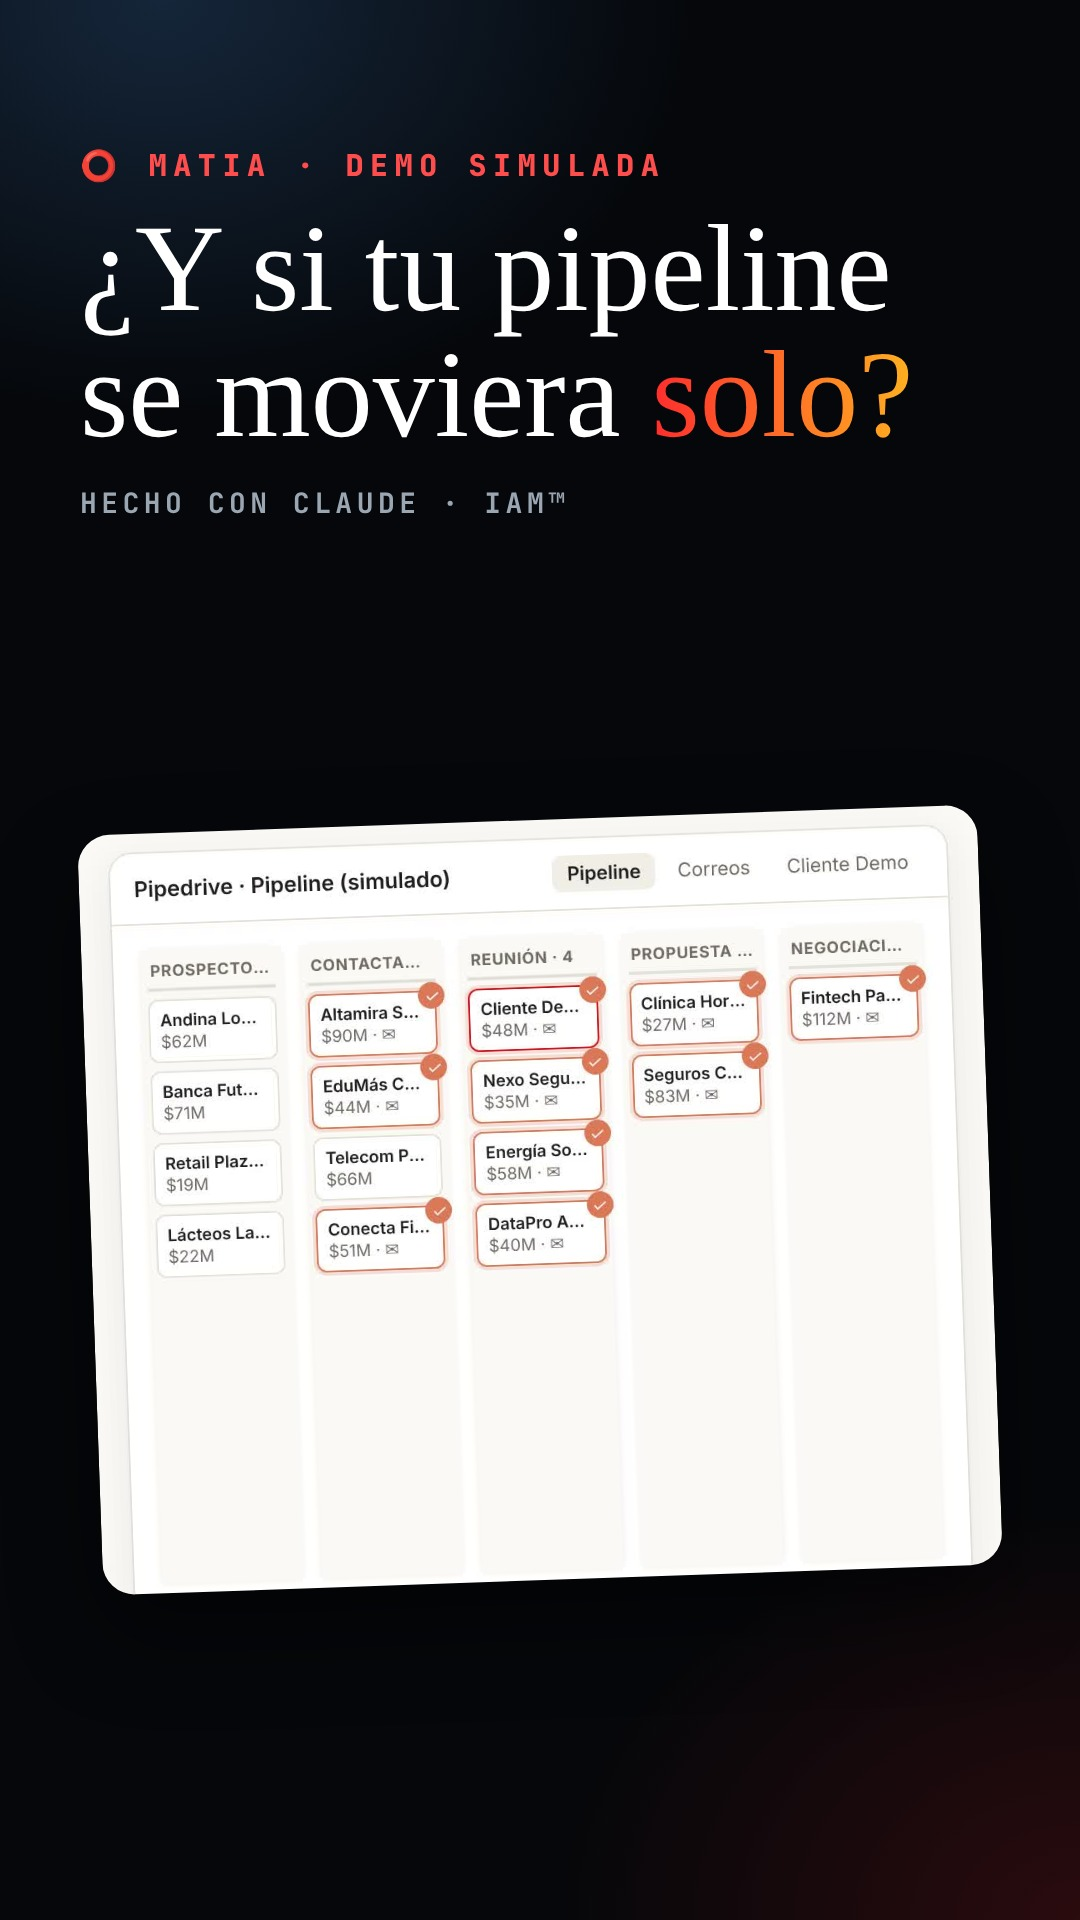
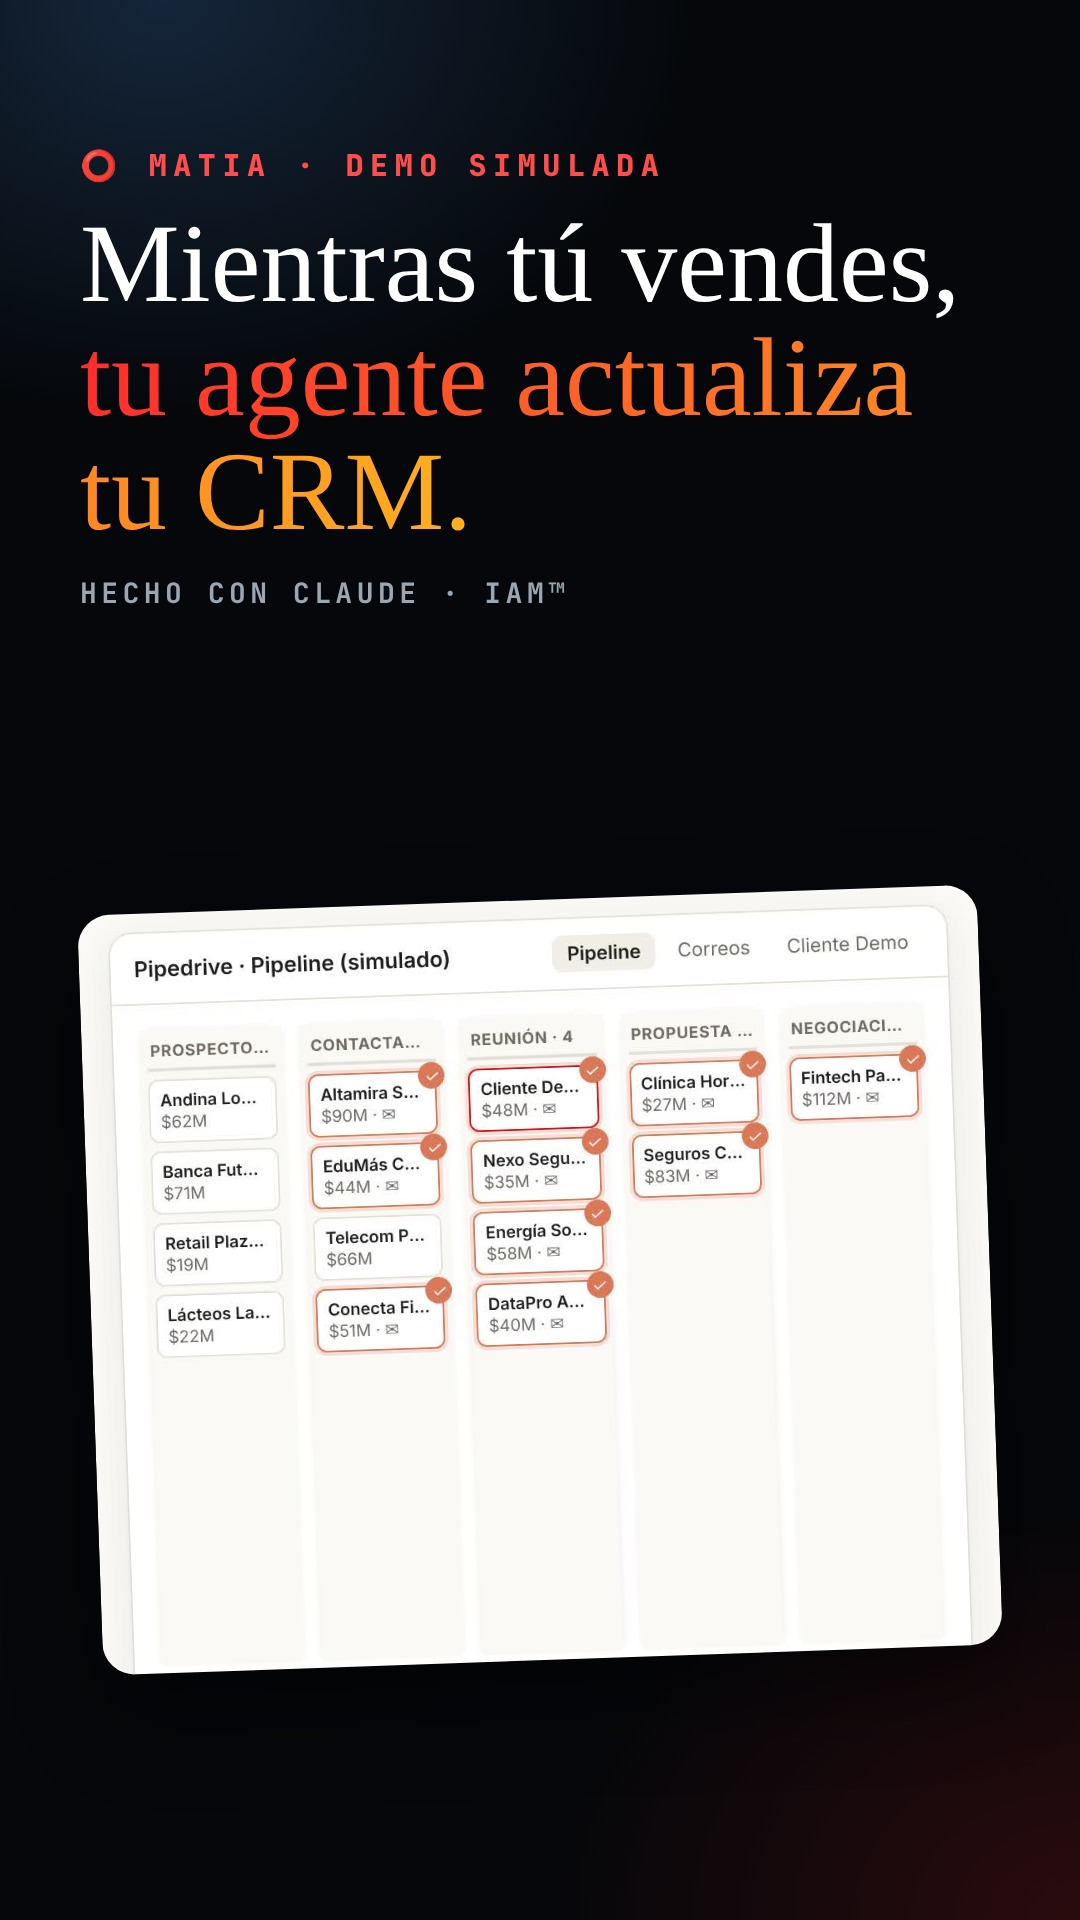
Reel MATIA: portadas con los títulos que pidió Sandra
Claude-Session: https://claude.ai/code/session_01NfWH1YnxdbRLc9ZrUJbHYq

Changed region(s): [[0.0611, 0.4062, 0.9167, 0.75], [0.0611, 0.125, 0.8861, 0.3125], [0.0917, 0.6875, 0.9472, 0.875]]

diff --git a/estrategia/instagram/reel-matia-gancho/cover.html b/estrategia/instagram/reel-matia-gancho/cover.html
@@ -10,8 +10,8 @@ em{font-style:normal;background:linear-gradient(90deg,#ff2d2d,#ffb020);-webkit-b
 #c1{background:radial-gradient(900px 700px at 15% 0%,#15263a 0,transparent 60%),radial-gradient(900px 700px at 100% 100%,#2a0b0e 0,transparent 60%),#05070a;color:#fff}
 #c2{background:#efe6d8;color:#14181d}
 </style></head><body>
-<div class="c" id="c1"><div style="position:absolute;top:150px;left:80px;right:80px"><p class="eye">⭕ MATIA · DEMO SIMULADA</p><h1>¿Y si tu pipeline se moviera <em>solo?</em></h1><p class="s" style="color:#9aa6b2">HECHO CON CLAUDE · IAM™</p></div>
-<div class="shot" style="top:820px;height:760px;transform:rotate(-2deg)"><img src="f2.jpg" style="margin-top:-790px"></div></div>
+<div class="c" id="c1"><div style="position:absolute;top:150px;left:80px;right:80px"><p class="eye">⭕ MATIA · DEMO SIMULADA</p><h1 style="font-size:112px">Mientras tú vendes, <em>tu agente actualiza tu CRM.</em></h1><p class="s" style="color:#9aa6b2">HECHO CON CLAUDE · IAM™</p></div>
+<div class="shot" style="top:900px;height:760px;transform:rotate(-2deg)"><img src="f2.jpg" style="margin-top:-790px"></div></div>
 <div class="c" id="c2"><div class="shot" style="top:120px;transform:rotate(2deg)"><img src="f2.jpg" style="margin-top:-80px;height:1100px;object-fit:cover;object-position:top"></div>
-<div style="position:absolute;bottom:170px;left:80px;right:80px"><p class="eye" style="color:#c00000">⭕ MATIA · DEMO SIMULADA</p><h1>10 toques de valor al día, <em>mientras tu equipo vende.</em></h1><p class="s" style="color:#5a636d">HECHO CON CLAUDE · IAM™</p></div></div>
+<div style="position:absolute;bottom:170px;left:80px;right:80px"><p class="eye" style="color:#c00000">⭕ MATIA · DEMO SIMULADA</p><h1 style="font-size:110px">10 toques de valor al día con tu agente de Claude, <em>mientras tu equipo vende.</em></h1><p class="s" style="color:#5a636d">HECHO CON CLAUDE · IAM™</p></div></div>
 </body></html>
